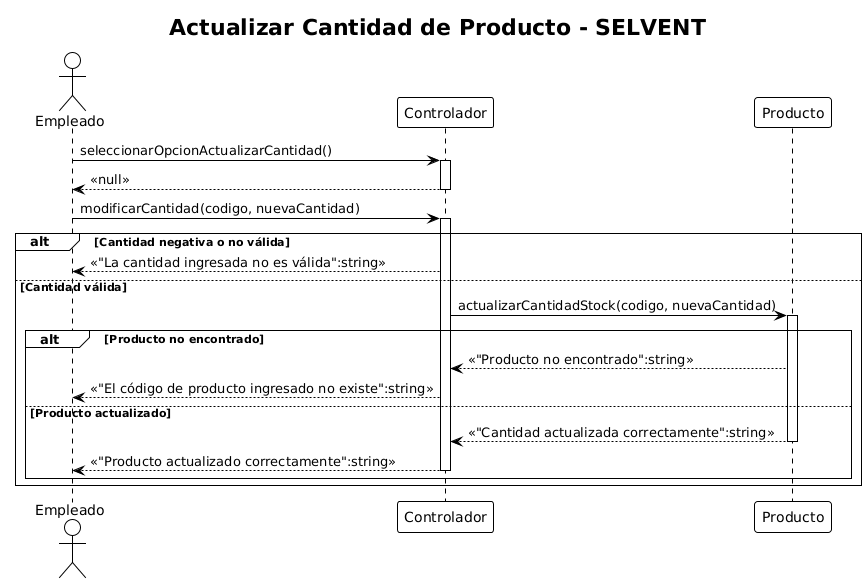
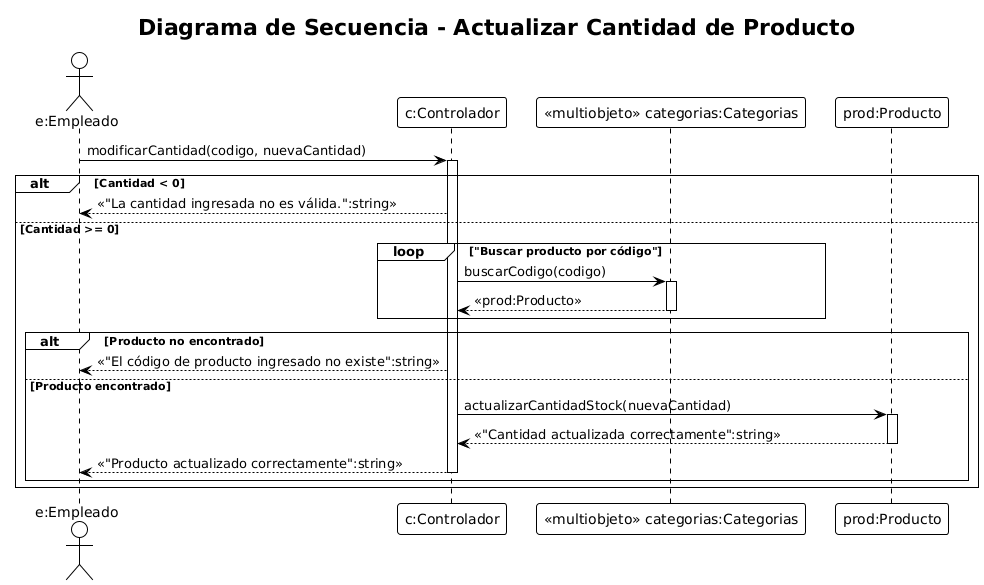
Correciones varias de diagramas
Se corrigio actualizar cantidad producto + su caso de uso, y mostrar inventario (clases tambien)

diff --git a/05 - Casos_de_uso/Caso_De_Uso_06_Actualizar_cantidad_de_productos.md b/05 - Casos_de_uso/Caso_De_Uso_06_Actualizar_cantidad_de_productos.md
@@ -1,30 +1,27 @@
 # Caso de uso: Actualizar cantidad de productos
-* Actores primarios: Empleado, encargado  
-* Actores secundarios: No tiene  
-* Precondición: El usuario debe tener permisos para actualizar productos
-* Postcondición: No tiene
+* Actores primarios: Empleado, Encargado
+* Actores secundarios: No tiene
+* Precondición: El usuario debe tener permisos para actualizar productos.
+* Postcondición:  No tiene
 
 ### Camino básico:
 
-1. El usuario selecciona la opción de “Actualizar cantidad de productos” dentro del sistema.  
+1. El usuario selecciona la opción “Actualizar cantidad de productos”.
 2. El sistema solicita el código del producto a actualizar.
-3. El usuario ingresa el código del producto, modifica las cantidades que desea cambiar, y termina el proceso guardando los datos seleccionando en la opción “Guardar”.  
-4. El sistema muestra mediante una alerta visual que el producto se actualizó correctamente.
+3. El usuario ingresa el código del producto e ingresa la nueva cantidad.
+4. El sistema busca el producto por código, actualiza la cantidad en stock reemplazando la anterior y muestra una alerta indicando que se actualizó correctamente.
 
 ### Caminos alternativos:
-4.a El usuario ingresó una cantidad negativa.  
-4.a.1 El sistema muestra una alerta visual con un mensaje que informa que la cantidad ingresada no es válida.  
+4.a El usuario ingresó una cantidad negativa.
+4.a.1 El sistema muestra una alerta indicando que la cantidad ingresada no es válida.
 4.a.2 Vuelve al paso “3”.
-4.b El usuario ingresó un código inexistente.  
-4.b.1 El sistema muestra una alerta: “El código del producto ingresado no existe.”
+4.b El usuario ingresó un código inexistente.
+4.b.1 El sistema muestra una alerta: “El código del producto ingresado no existe”.
 4.b.2 Vuelve al paso “3”.
 
 ### Escenario de éxito:
-
-* El usuario pudo actualizar un producto.
+* El usuario pudo actualizar la cantidad del producto.
 
 ### Escenario de fracaso:
-
 * El usuario no pudo actualizar un producto por código inexistente.
 * El usuario no pudo actualizar un producto por cantidad negativa.
-
